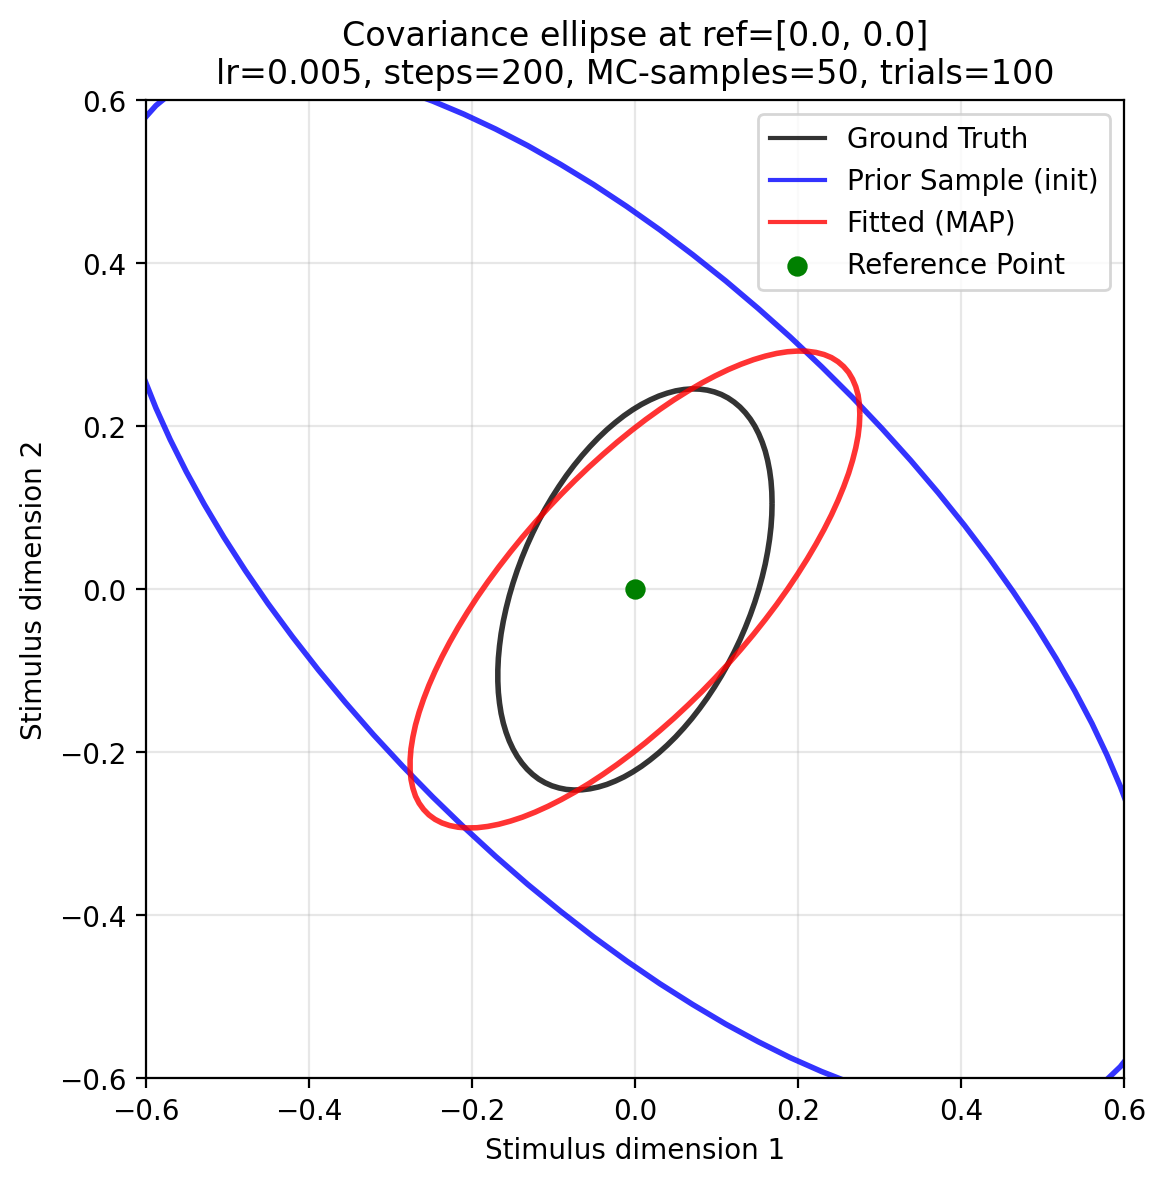
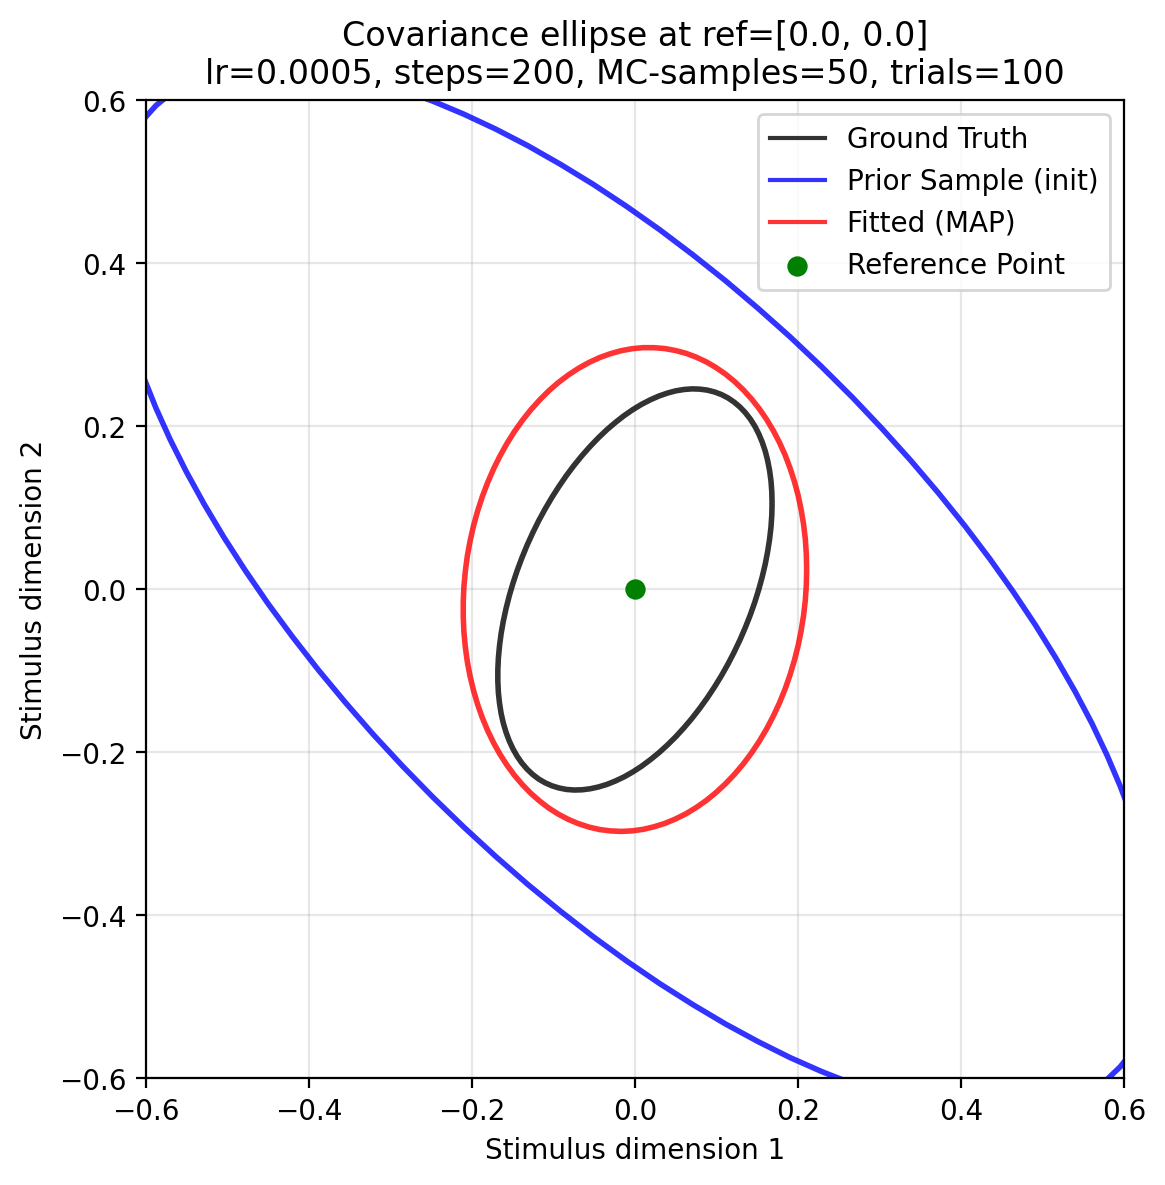
added key threading to log_posterior_from data and updated quick start

diff --git a/src/psyphy/inference/map_optimizer.py b/src/psyphy/inference/map_optimizer.py
@@ -127,7 +127,8 @@ class MAPOptimizer(InferenceEngine):
             this takes precedence over the seed.
         seed : int | None, optional
             PRNG seed used to draw initial parameters from the model's prior
-            when init_params is not provided. If None, defaults to 0.
+            when init_params is not provided, and as the base key for the MC
+            likelihood random stream during optimization. If None, defaults to 0.
 
         Returns
         -------
@@ -135,26 +136,29 @@ class MAPOptimizer(InferenceEngine):
             Posterior wrapper around MAP params and model.
         """
 
-        def loss_fn(params):
-            return -model.log_posterior_from_data(params, data)
+        rng_seed = 0 if seed is None else int(seed)
+        # Master key: split into init key and optimization key stream.
+        master_key = jax.random.PRNGKey(rng_seed)
+        init_key, opt_key = jax.random.split(master_key)
 
         # Initialize parameters
         if init_params is not None:
             params = init_params
         else:
-            rng_seed = 0 if seed is None else int(seed)
-            params = model.init_params(jax.random.PRNGKey(rng_seed))
+            params = model.init_params(init_key)
         opt_state = self.optimizer.init(params)
 
+        # key is now an explicit argument so each JIT-compiled call receives a
+        # distinct random key — a fresh MC noise realization per gradient step.
         @jax.jit
-        def step(params, opt_state):
-            # Ensure params and opt_state are JAX PyTrees for JIT compatibility
-            loss, grads = jax.value_and_grad(loss_fn)(params)  # auto-diff
+        def step(params, opt_state, key):
+            loss, grads = jax.value_and_grad(
+                lambda p: -model.log_posterior_from_data(p, data, key=key)
+            )(params)
             updates, opt_state = self.optimizer.update(
                 grads, opt_state, params
-            )  # optimizer update
-            params = optax.apply_updates(params, updates)  # apply updates
-            # Only return JAX-compatible types (PyTrees of arrays, scalars)
+            )
+            params = optax.apply_updates(params, updates)
             return params, opt_state, loss
 
         # clear any previous history
@@ -185,7 +189,10 @@ class MAPOptimizer(InferenceEngine):
                 pbar = None
 
         for i in range(self.steps):
-            params, opt_state, loss = step(params, opt_state)
+            # Split a fresh subkey for each step so the MC likelihood sees a
+            # different noise realization on every gradient evaluation.
+            opt_key, subkey = jax.random.split(opt_key)
+            params, opt_state, loss = step(params, opt_state, subkey)
 
             # Non-finite guard: if loss becomes NaN/Inf, optimization has diverged.
             # Stop early so downstream plots don’t look “truncated” due to NaNs.

diff --git a/src/psyphy/model/wppm.py b/src/psyphy/model/wppm.py
@@ -532,7 +532,9 @@ class WPPM(Model):
         )
         return self.task.loglik(params, data, self, self.noise)
 
-    def log_likelihood_from_data(self, params: Params, data: Any) -> jnp.ndarray:
+    def log_likelihood_from_data(
+        self, params: Params, data: Any, *, key: jax.Array | None = None
+    ) -> jnp.ndarray:
         """Compute log-likelihood directly from a batched data object.
 
         Why delegate to the task?
@@ -546,29 +548,51 @@ class WPPM(Model):
             Model parameters.
         data : TrialData (or any object with refs/comparisons/responses arrays)
             Collected trial data.
+        key : jax.Array | None, optional
+            JAX random key for MC likelihood evaluation. When provided, a fresh
+            noise realization is drawn every call — required for correct stochastic
+            gradient estimates during optimization. When None, the task falls back
+            to ``OddityTaskConfig.default_key_seed`` (useful for fixed evaluation
+            and testing, but should not be used during gradient-based optimization).
 
         Returns
         -------
         loglik : jnp.ndarray
             Scalar log-likelihood (task-only; add prior outside if needed).
         """
-        return self.task.loglik(params, data, self, self.noise)
+        return self.task.loglik(params, data, self, self.noise, key=key)
 
     # ----------------------------------------------------------------------
     # POSTERIOR-STYLE CONVENIENCE (OPTIONAL)
     # ----------------------------------------------------------------------
-    def log_posterior_from_data(self, params: Params, data: Any) -> jnp.ndarray:
+    def log_posterior_from_data(
+        self, params: Params, data: Any, *, key: jax.Array | None = None
+    ) -> jnp.ndarray:
         """Compute log posterior from data.
 
         This simply adds the prior log-probability to the task log-likelihood.
         Inference engines (e.g., MAP optimizer) typically optimize this quantity.
+
+        Parameters
+        ----------
+        params : dict
+            Model parameters.
+        data : TrialData
+            Collected trial data.
+        key : jax.Array | None, optional
+            JAX random key for the MC likelihood. Must be provided during
+            optimization so each gradient step uses a fresh noise realization.
+            When None, falls back to ``OddityTaskConfig.default_key_seed``.
 
         Returns
         -------
         jnp.ndarray
             Scalar log posterior = loglik(params | data) + log_prior(params).
         """
-        return self.log_likelihood_from_data(params, data) + self.prior.log_prob(params)
+        return (
+            self.log_likelihood_from_data(params, data, key=key)
+            + self.prior.log_prob(params)
+        )
 
     # ----------------------------------------------------------------------
     # MODEL FORWARD PASS (for predict_with_params)

diff --git a/docs/examples/wppm/quick_start.py b/docs/examples/wppm/quick_start.py
@@ -90,6 +90,8 @@ def _ellipse_segments_from_covs(
 MC_SAMPLES = 50  # MC samples per trial in the likelihood (full example: 500)
 NUM_TRIALS = 100  # total simulated trials (full example: 4000 × 25)
 NUM_STEPS = 200  # optimizer steps (full example: 2000)
+
+learning_rate = 5e-4
 # --8<-- [end:compute_settings]
 
 # ---------------------------------------------------------------------------
@@ -103,7 +105,6 @@ decay_rate = 0.4  # how quickly high-frequency basis coefficients are shrunk
 variance_scale = 4e-3  # prior scale for the covariance matrices
 diag_term = 1e-4  # small diagonal jitter to keep covariances PD
 bandwidth = 1e-2  # logistic-CDF bandwidth in the oddity task
-learning_rate = 5e-3
 momentum = 0.9
 
 # ---------------------------------------------------------------------------
@@ -247,14 +248,10 @@ map_optimizer = MAPOptimizer(
     learning_rate=learning_rate,
     momentum=momentum,
     track_history=True,
-    log_every=50,
+    log_every=1,
 )
 
-map_posterior = map_optimizer.fit(
-    model,
-    data,
-    init_params=init_params,
-)
+map_posterior = map_optimizer.fit(model, data, init_params=init_params, seed=4)
 # --8<-- [end:fit_map]
 
 # ---------------------------------------------------------------------------
